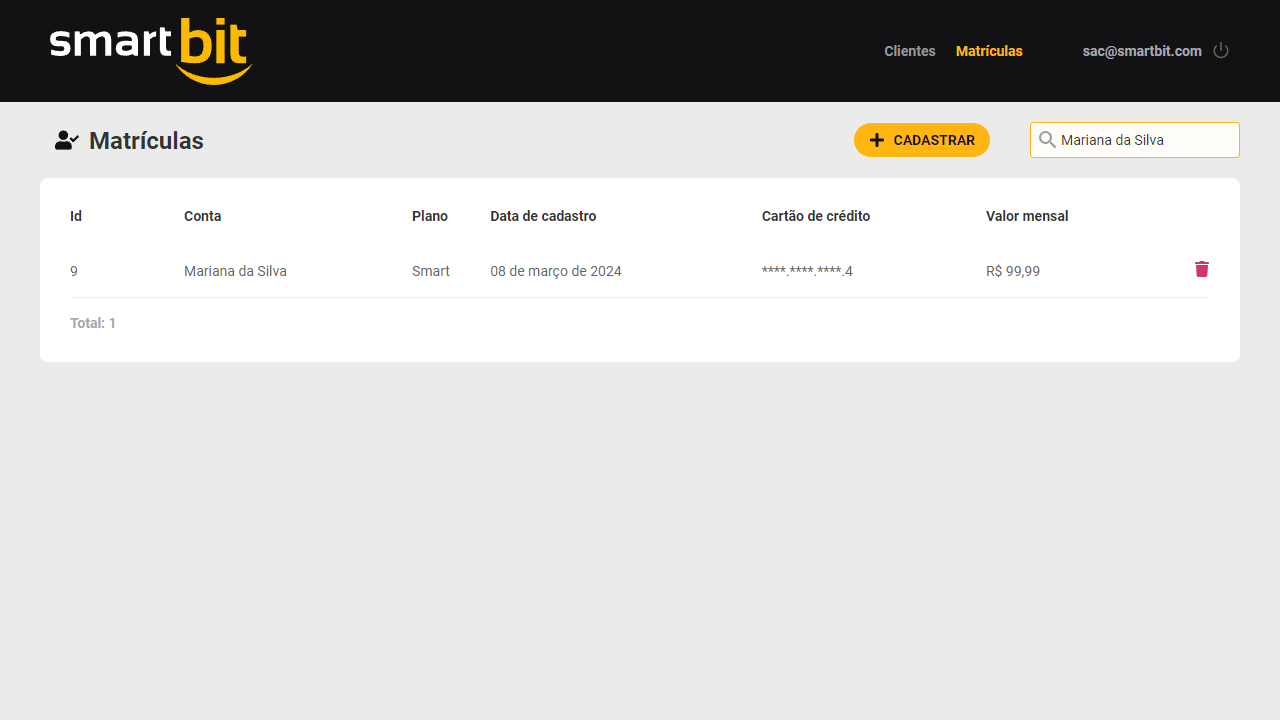
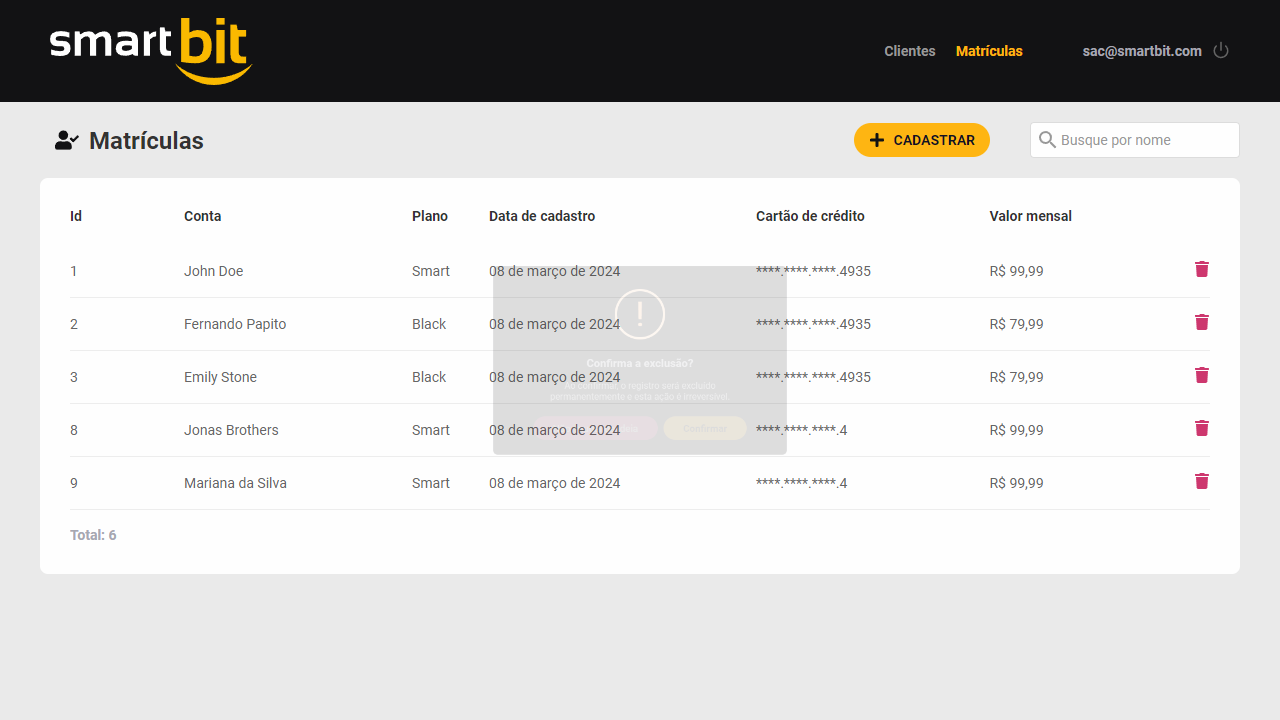
Excluir matrícula

diff --git a/logs/log.html b/logs/log.html
@@ -2081,25 +2081,25 @@ storage = function () {
 window.output = {};
 </script>
 <script type="text/javascript">
-window.output["suite"] = [1,2,3,0,[],[1,0,6932],[[4,5,6,7,[],[1,28,6897],[],[[8,0,0,[9],[1,1828,5005],[[1,10,11,0,0,0,0,0,[1,1831,2191],[[0,12,13,0,14,15,0,16,[1,1832,1163],[[1833,2,17],[2994,2,18]]],[0,19,13,0,20,21,0,16,[1,2995,1027],[[4022,2,22],[4022,2,23]]]]],[0,24,11,0,0,25,26,0,[1,4023,4],[[0,27,28,0,29,30,26,0,[1,4023,3],[[4026,2,31]]],[8,0,0,0,0,32,0,0,[1,4026,0],[]],[4027,2,33]]],[0,34,35,0,0,26,0,0,[1,4027,54],[]],[0,36,11,0,0,0,0,0,[1,4082,1641],[[0,37,38,0,0,0,0,0,[1,4082,100],[[0,39,13,0,40,41,0,16,[1,4083,98],[[4181,2,42]]]]],[0,43,38,0,0,44,0,0,[1,4182,155],[[0,45,13,0,46,47,0,48,[1,4182,66],[[4183,2,49]]],[0,45,13,0,46,50,0,48,[1,4248,25],[[4248,2,51]]],[0,52,13,0,53,54,0,48,[1,4273,64],[]]]],[0,55,56,0,0,57,0,0,[1,4338,1386],[[0,58,59,0,60,61,62,0,[1,4338,0],[[4338,2,63]]],[0,64,13,0,65,66,0,67,[1,4338,1352],[[5689,2,68]]],[0,69,13,0,70,71,0,72,[1,5689,34],[[5723,2,73]]]]]]],[0,74,56,0,0,0,0,0,[1,5724,73],[[0,52,13,0,53,75,0,48,[1,5724,62],[]],[0,64,13,0,65,76,0,67,[1,5786,11],[[5797,2,77]]]]],[0,78,4,0,0,79,0,0,[1,5797,903],[[0,45,13,0,46,80,0,48,[1,5798,49],[[5798,2,81]]],[0,64,13,0,65,82,0,67,[1,5847,851],[[6699,2,83]]]]],[0,84,4,0,0,79,0,0,[1,6699,9],[[0,64,13,0,65,85,0,67,[1,6700,8],[[6707,2,86]]]]],[2,87,13,0,88,0,0,89,[1,6709,124],[[6832,2,90]]]]]],[],[1,1,0,0]]],[],[],[1,1,0,0]];
+window.output["suite"] = [1,2,3,0,[],[1,0,6358],[[4,5,6,7,[],[1,25,6328],[],[[8,0,0,[9],[1,1808,4466],[[1,10,11,0,0,0,0,0,[1,1812,1996],[[0,12,13,0,14,15,0,16,[1,1813,965],[[1814,2,17],[2778,2,18]]],[0,19,13,0,20,21,0,16,[1,2778,1030],[[3808,2,22],[3808,2,23]]]]],[0,24,11,0,0,25,26,0,[1,3812,3],[[0,27,28,0,29,30,26,0,[1,3814,0],[[3814,2,31]]],[8,0,0,0,0,32,0,0,[1,3815,0],[]],[3815,2,33]]],[0,34,35,0,0,26,0,0,[1,3815,35],[]],[0,36,11,0,0,0,0,0,[1,3851,1782],[[0,37,38,0,0,0,0,0,[1,3851,244],[[0,39,13,0,40,41,0,16,[1,3852,243],[[4095,2,42]]]]],[0,43,38,0,0,44,0,0,[1,4096,140],[[0,45,13,0,46,47,0,48,[1,4096,60],[[4097,2,49]]],[0,45,13,0,46,50,0,48,[1,4156,25],[[4157,2,51]]],[0,52,13,0,53,54,0,48,[1,4182,54],[]]]],[0,55,56,0,0,57,0,0,[1,4236,1397],[[0,58,59,0,60,61,62,0,[1,4237,0],[[4237,2,63]]],[0,64,13,0,65,66,0,67,[1,4237,1364],[[5601,2,68]]],[0,69,13,0,70,71,0,72,[1,5601,32],[[5633,2,73]]]]]]],[0,74,56,0,0,0,0,0,[1,5633,97],[[0,52,13,0,53,75,0,48,[1,5633,62],[]],[0,64,13,0,65,76,0,67,[1,5695,35],[[5730,2,77]]]]],[0,78,4,0,0,79,0,0,[1,5730,62],[[0,52,13,0,53,80,0,48,[1,5730,62],[]]]],[0,81,82,0,0,0,0,0,[1,5792,322],[[0,52,13,0,53,83,0,48,[1,5793,321],[]]]],[0,84,4,0,0,79,0,0,[1,6114,9],[[0,64,13,0,65,85,0,67,[1,6115,7],[[6122,2,86]]]]],[2,87,13,0,88,0,0,89,[1,6123,151],[[6274,2,90]]]]]],[],[1,1,0,0]]],[],[],[1,1,0,0]];
 </script>
 <script type="text/javascript">
 window.output["strings"] = [];
 </script>
 <script type="text/javascript">
[2 lines of base64/hex data omitted]
 </script>
 <script type="text/javascript">
-window.output["stats"] = [[{"elapsed":"00:00:05","fail":0,"label":"All Tests","pass":1,"skip":0}],[{"elapsed":"00:00:05","fail":0,"label":"search","pass":1,"skip":0}],[{"elapsed":"00:00:07","fail":0,"id":"s1","label":"Tests","name":"Tests","pass":1,"skip":0},{"elapsed":"00:00:07","fail":0,"id":"s1-s1","label":"Tests.Memberships","name":"Memberships","pass":1,"skip":0}]];
+window.output["stats"] = [[{"elapsed":"00:00:04","fail":0,"label":"All Tests","pass":1,"skip":0}],[{"elapsed":"00:00:04","fail":0,"label":"remove","pass":1,"skip":0}],[{"elapsed":"00:00:06","fail":0,"id":"s1","label":"Tests","name":"Tests","pass":1,"skip":0},{"elapsed":"00:00:06","fail":0,"id":"s1-s1","label":"Tests.Memberships","name":"Memberships","pass":1,"skip":0}]];
 </script>
 <script type="text/javascript">
-window.output["errors"] = [[32,3,91]];
+window.output["errors"] = [[29,3,91]];
 </script>
 <script type="text/javascript">
-window.output["baseMillis"] = 1710209682254;
+window.output["baseMillis"] = 1710288821522;
 </script>
 <script type="text/javascript">
-window.output["generated"] = 6943;
+window.output["generated"] = 6366;
 </script>
 <script type="text/javascript">
 window.output["expand_keywords"] = null;

diff --git a/logs/report.html b/logs/report.html
@@ -1897,22 +1897,22 @@ storage = function () {
 window.output = {};
 </script>
 <script type="text/javascript">
-window.output["suite"] = [1,2,3,0,[],[1,0,6932],[[4,5,6,7,[],[1,28,6897],[],[[8,0,0,[9],[1,1828,5005],[]]],[],[1,1,0,0]]],[],[],[1,1,0,0]];
+window.output["suite"] = [1,2,3,0,[],[1,0,6358],[[4,5,6,7,[],[1,25,6328],[],[[8,0,0,[9],[1,1808,4466],[]]],[],[1,1,0,0]]],[],[],[1,1,0,0]];
 </script>
 <script type="text/javascript">
 window.output["strings"] = [];
 </script>
 <script type="text/javascript">
-window.output["strings"] = window.output["strings"].concat(["*","*Tests","*C:\\QAx\\projects\\smartbit-robot\\tests","*../tests","*Memberships","*C:\\QAx\\projects\\smartbit-robot\\tests\\memberships.robot","*../tests/memberships.robot","*<p>Suite de testes de adesoes de planos\x3c/p>","*Deve buscar por nome","*search"]);
+window.output["strings"] = window.output["strings"].concat(["*","*Tests","*C:\\QAx\\projects\\smartbit-robot\\tests","*../tests","*Memberships","*C:\\QAx\\projects\\smartbit-robot\\tests\\memberships.robot","*../tests/memberships.robot","*<p>Suite de testes de adesoes de planos\x3c/p>","*Deve excluir uma matricula","*remove"]);
 </script>
 <script type="text/javascript">
-window.output["stats"] = [[{"elapsed":"00:00:05","fail":0,"label":"All Tests","pass":1,"skip":0}],[{"elapsed":"00:00:05","fail":0,"label":"search","pass":1,"skip":0}],[{"elapsed":"00:00:07","fail":0,"id":"s1","label":"Tests","name":"Tests","pass":1,"skip":0},{"elapsed":"00:00:07","fail":0,"id":"s1-s1","label":"Tests.Memberships","name":"Memberships","pass":1,"skip":0}]];
+window.output["stats"] = [[{"elapsed":"00:00:04","fail":0,"label":"All Tests","pass":1,"skip":0}],[{"elapsed":"00:00:04","fail":0,"label":"remove","pass":1,"skip":0}],[{"elapsed":"00:00:06","fail":0,"id":"s1","label":"Tests","name":"Tests","pass":1,"skip":0},{"elapsed":"00:00:06","fail":0,"id":"s1-s1","label":"Tests.Memberships","name":"Memberships","pass":1,"skip":0}]];
 </script>
 <script type="text/javascript">
-window.output["baseMillis"] = 1710209682254;
+window.output["baseMillis"] = 1710288821522;
 </script>
 <script type="text/javascript">
-window.output["generated"] = 6943;
+window.output["generated"] = 6366;
 </script>
 <script type="text/javascript">
 window.output["expand_keywords"] = null;
